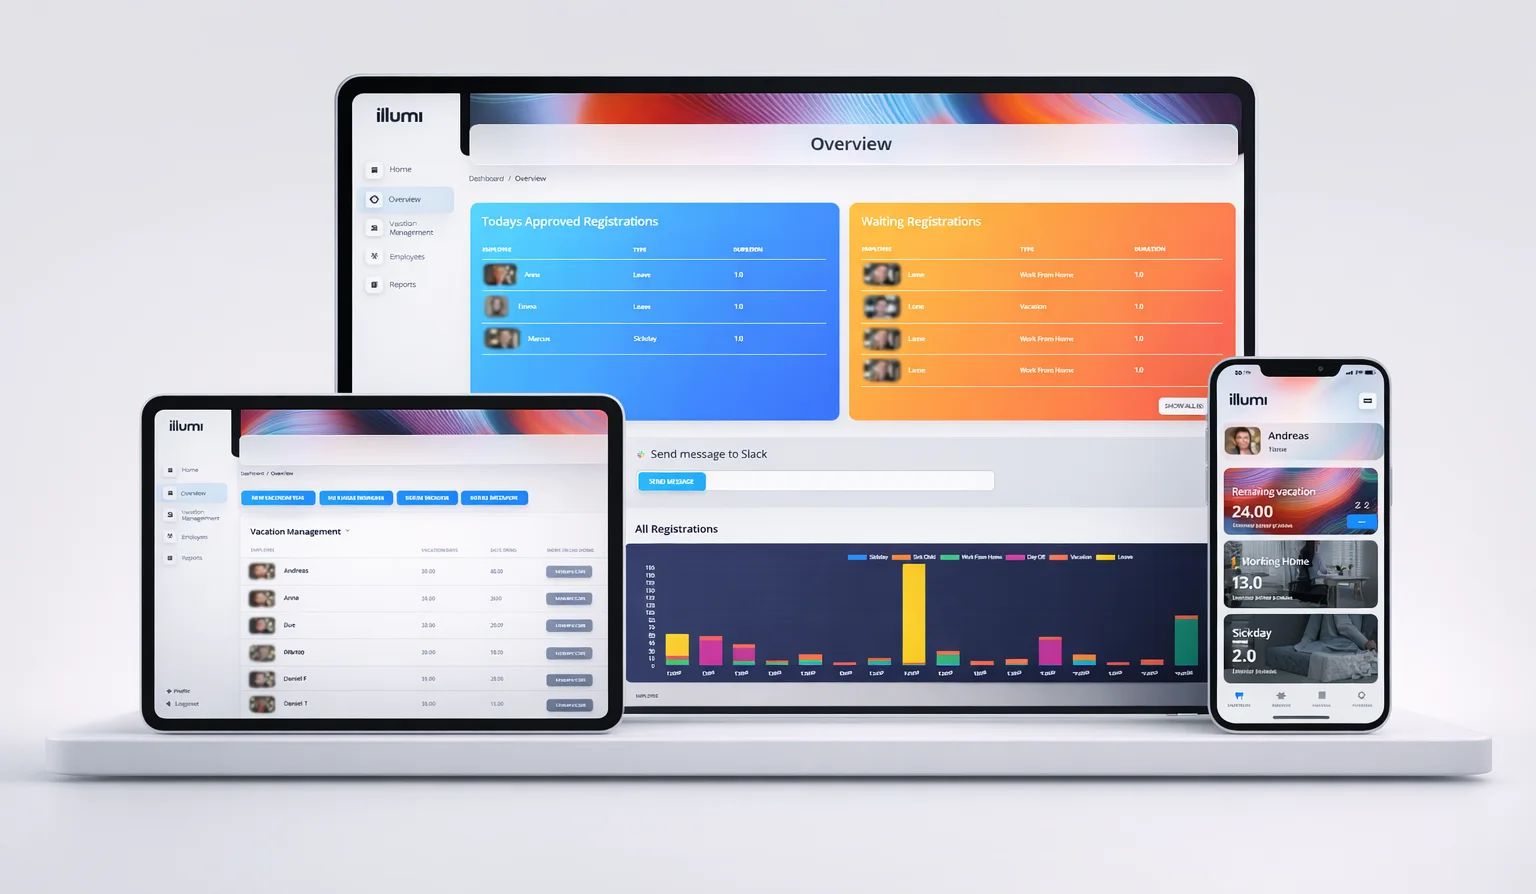
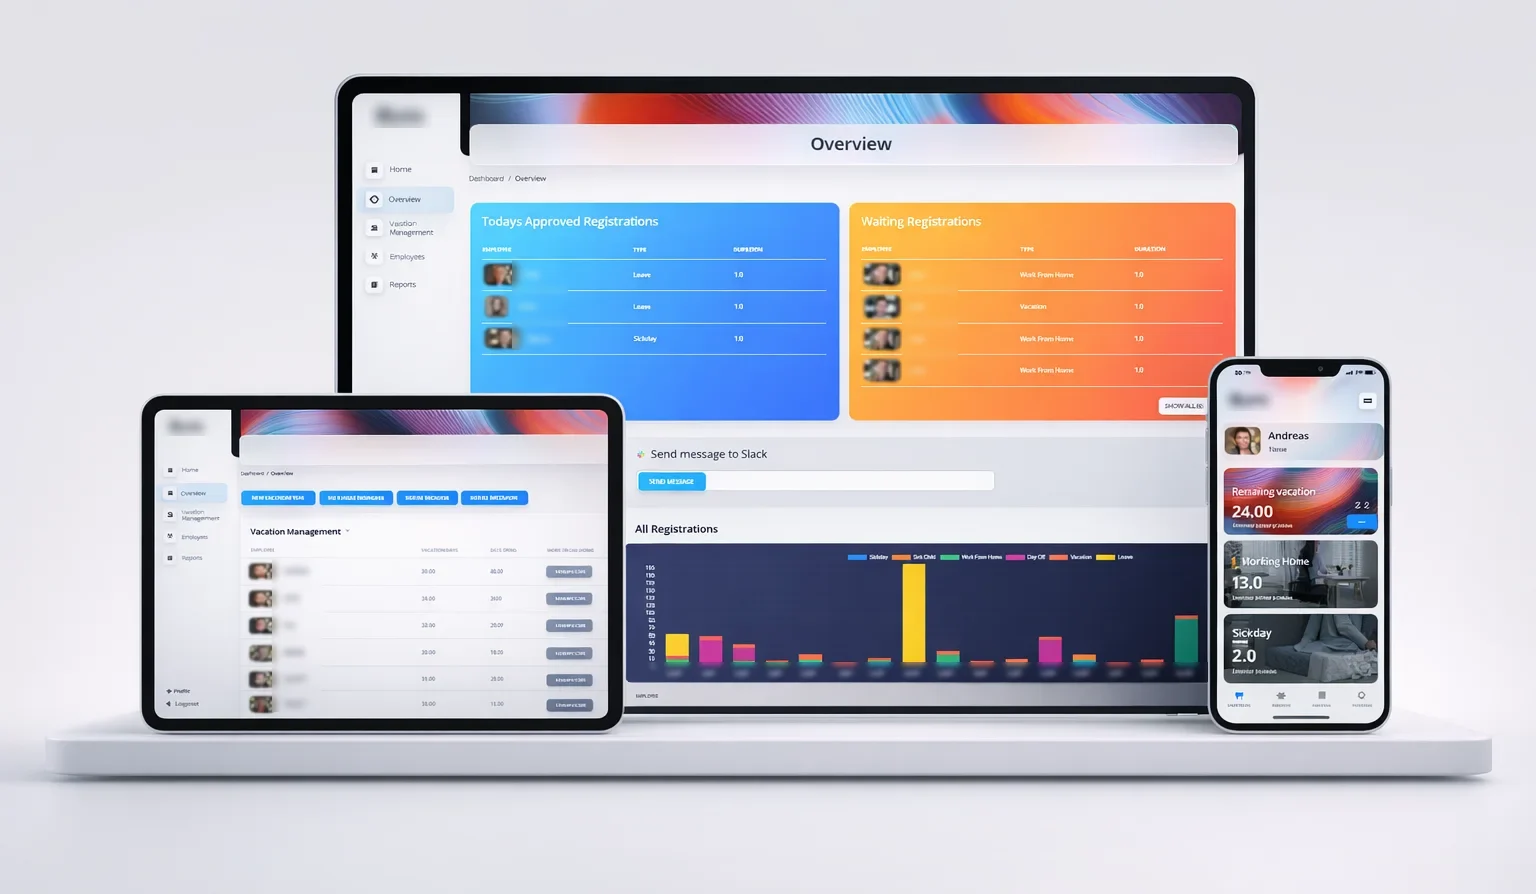
feat: anonymise screenshots and update the report case
Blur the company logo, colleague names and client task names in the
screenshots. Describe how the Power BI report moved from direct API
calls to the sync pipeline's files in Azure Data Lake.

Claude-Session: https://claude.ai/code/session_01HdpjHFbWuDBpVBGztQmEGn

diff --git a/projects/timetrack-powerbi.html b/projects/timetrack-powerbi.html
@@ -4,7 +4,7 @@
   <meta charset="utf-8">
   <meta name="viewport" content="width=device-width, initial-scale=1">
   <title>Time tracking report – Andreas Gaardsted Vad</title>
-  <meta name="description" content="A Power BI report on project hours and budgets, built on data from the ClickUp and e‑conomic APIs.">
+  <meta name="description" content="A Power BI report on project hours, budgets and invoicing, built on ClickUp and e-conomic data in Azure Data Lake.">
   <link rel="icon" href="../img/favicon.svg" type="image/svg+xml">
   <link rel="preconnect" href="https://fonts.googleapis.com">
   <link rel="preconnect" href="https://fonts.gstatic.com" crossorigin>
@@ -30,12 +30,12 @@
   <main id="main" class="wrap">
     <section class="project-hero">
       <h1>Time tracking report</h1>
-      <p class="lede">A Power BI report that shows where project hours go, built on data pulled straight from ClickUp and e‑conomic.</p>
+      <p class="lede">A Power BI report that shows where project hours go – billable time, budgets, prepaid hours and invoicing – for project managers and leadership.</p>
       <dl class="facts">
         <div><dt>Role</dt><dd>Data analyst</dd></div>
-        <div><dt>Stack</dt><dd>Power BI, Power Query (M), DAX, Power Automate</dd></div>
-        <div><dt>Data sources</dt><dd>ClickUp API, e‑conomic API</dd></div>
-        <div><dt>Skills</dt><dd>Data modeling, API integration, visualization</dd></div>
+        <div><dt>Stack</dt><dd>Power BI (PBIP in Git), DAX, Power Query (M), Power Automate</dd></div>
+        <div><dt>Data</dt><dd>ClickUp and e‑conomic via Azure Data Lake, budgets from SharePoint</dd></div>
+        <div><dt>Size</dt><dd>11 pages, around 160 measures</dd></div>
       </dl>
     </section>
 
@@ -63,6 +63,7 @@
           <li>Billable versus unbillable time, filtered by date, project manager, client and status</li>
           <li>Budget status per project: over, near or within budget</li>
           <li>Drill-through from the overview to a single project and the people working on it</li>
+          <li>Pages for people, prepaid hours, finances, hourly rates and printable timesheets</li>
           <li>Role-based access, so each person sees the data they should</li>
           <li>On-demand refresh from the report through a Power Automate flow</li>
         </ul>
@@ -72,8 +73,8 @@
     <div class="block block--split">
       <div class="prose">
         <h2>The model</h2>
-        <p>ClickUp was the team's project tool, and its structure of spaces, folders and lists didn't match the project structure needed for reporting. Project metadata was kept in ClickUp in its own pseudo-structure, so the two could evolve separately.</p>
-        <p>I built the extraction in Power Query (M) against the ClickUp API, pulling project and time entry data and linking them through a bridge table. Invoices, prepaid hours and budgets from e‑conomic sit alongside, all sharing one calendar. That makes it possible to aggregate hours accurately by project, client and employee.</p>
+        <p>ClickUp is the team's project tool, and its structure of spaces, folders and lists doesn't match the project structure needed for reporting. Project metadata is kept in ClickUp in its own pseudo-structure and linked to tasks and time entries through a bridge table.</p>
+        <p>Around that sit invoices and prepaid hours from e‑conomic, budgets from a SharePoint workbook, users and one shared calendar. That makes it possible to follow hours and money by project, client and employee. The report is saved as a Power BI project (PBIP), so the model and every measure are versioned in Git.</p>
       </div>
       <figure class="figure">
         <button type="button" aria-label="Enlarge screenshot"><img src="../img/timetrack-model.webp" width="1155" height="1157" alt="Power BI model view with tables for time entries, tasks, project data, clients, users, calendar, budget, invoices and prepaid hours." loading="lazy"></button>
@@ -83,9 +84,9 @@
 
     <div class="block">
       <div class="prose">
-        <h2>Challenges and solutions</h2>
-        <p>The ClickUp API limits how much data a single request can return. I added pagination to the extraction so large datasets come through in manageable chunks.</p>
-        <p>The API can also return time entries in a denormalised form. By staging that data first and reshaping it in Power BI, I no longer had to fetch tasks a hundred at a time, which made the refresh considerably faster and more reliable.</p>
+        <h2>How it grew</h2>
+        <p>The first version called the ClickUp and e‑conomic APIs directly from Power Query. The ClickUp API limits how much a single request returns, so I added pagination and staged the time entries before reshaping them. It worked, but every refresh got slower and more fragile as the history grew.</p>
+        <p>So I moved the extraction out of Power BI and into the <a href="clickup-sync.html">ClickUp sync pipeline</a>. The report now reads Parquet and JSON files from Azure Data Lake, and the time entries use incremental refresh, so only recent data is reloaded. The same files feed the <a href="approval-app.html">approval app</a>, so both tools show the same numbers.</p>
       </div>
     </div>
 

diff --git a/projects/clickup-sync.html b/projects/clickup-sync.html
@@ -40,14 +40,14 @@
     </section>
 
     <figure class="figure">
-      <img src="../img/pipeline.svg" width="1200" height="560" alt="Diagram: time entries flow from the ClickUp API into an Azure Function, which checks freshness and takes a lock, splits the date range into months, fetches them in parallel and writes one Parquet file per month plus run metadata to Blob Storage. The approval app and reporting read from there.">
+      <img src="../img/pipeline.svg" width="1200" height="560" alt="Diagram: time entries flow from the ClickUp API into an Azure Function, which checks freshness and takes a lock, splits the date range into months, fetches them in parallel and writes one Parquet file per month plus run metadata to Blob Storage. The Power BI report and the approval app read from there.">
       <figcaption>How a sync runs.</figcaption>
     </figure>
 
     <div class="block">
       <div class="prose">
         <h2>The problem</h2>
-        <p>Several tools needed the same time entries from ClickUp: reporting, and later the approval app. Pulling them straight from the API every time was slow, ran into the API's limits and meant every tool had to solve the same problem.</p>
+        <p>Several tools needed the same time entries from ClickUp: the Power BI time tracking report, and later the approval app. Pulling them straight from the API every time was slow, ran into the API's limits and meant every tool had to solve the same problem.</p>
         <p>The pipeline fetches the data once, stores it in an analysis-friendly format, and lets everything downstream read from storage instead.</p>
       </div>
     </div>

diff --git a/index.html b/index.html
@@ -112,7 +112,7 @@
       <div class="wrap">
         <div class="section__head">
           <h2 id="work-title">Selected work</h2>
-          <p>The first three work together: the sync pipeline collects the data that the approval app and reporting are built on. Names and figures in the screenshots are anonymised or demo data.</p>
+          <p>The first three work together: the sync pipeline collects the data that both the approval app and the Power BI report are built on. Names and figures in the screenshots are anonymised or demo data.</p>
         </div>
 
         <div class="work">
@@ -146,8 +146,8 @@
             </a>
             <div>
               <h3><a href="projects/timetrack-powerbi.html">Time tracking report</a></h3>
-              <ul class="tags"><li>Power BI</li><li>Power Query (M)</li><li>DAX</li><li>ClickUp API</li><li>e‑conomic API</li></ul>
-              <p>A Power BI report that shows where project hours go – billable versus unbillable, and which projects are over budget – built on data pulled straight from ClickUp and e-conomic.</p>
+              <ul class="tags"><li>Power BI</li><li>DAX</li><li>Power Query (M)</li><li>Azure Data Lake</li><li>Incremental refresh</li></ul>
+              <p>A Power BI report that shows where project hours go – billable versus unbillable, budgets, prepaid hours and invoicing – built on ClickUp and e‑conomic data from the sync pipeline.</p>
               <a href="projects/timetrack-powerbi.html">Read the case</a>
             </div>
           </article>
